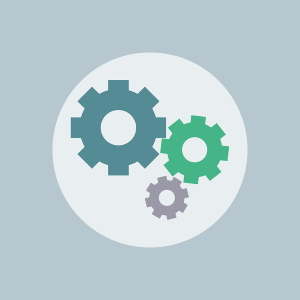
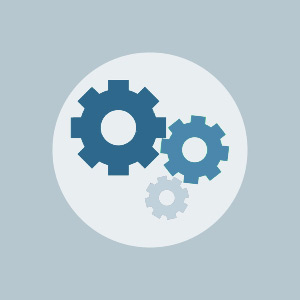
feat(ux): color changes, home screen improvement

Changed region(s): [[0.21, 0.24, 0.78, 0.75]]

diff --git a/src/views/Home.vue b/src/views/Home.vue
@@ -1,5 +1,53 @@
 <template>
-  <div class="container">Configured API: {{ apiUrl }}</div>
+  <div>
+    <div class="container">
+      <div class="jumbotron">
+        <h1 class="display-4">Combinatorial Auction Visualizer</h1>
+        <p class="lead">
+          An online, interactive platform for combinatorial auctions.
+        </p>
+        <hr class="my-4" />
+        <p>
+          The goal is that students/instructors/researchers can use this platform to learn about different auction formats and their
+          advantages and disadvantages in an interactive way.
+        </p>
+
+        <p class="lead text-center my-4">
+          <a class="btn btn-primary btn-lg" href="/docs/" role="button">Learn more</a>
+          <router-link tag="button" class="btn btn-success mx-3 btn-lg text-white" :to="{ name: 'auction-create' }"
+            >Setup an Auction</router-link
+          >
+        </p>
+
+        <div class="mt-4">
+          <p>
+            CAVis was developed at the <a href="https://www.uzh.ch/" target="_blank">University of Zurich</a> in collaboration with
+            <a href="https://www.bu.edu/" target="_blank">Boston University</a>.
+          </p>
+
+          <p>
+            CAVis is an open-source web application, published under the GNU Affero license (Contributions are welcome!). The source code of
+            all components is <a href="https://github.com/marketdesignresearch/" target="_blank">published</a> on GitHub.
+          </p>
+
+          <p>
+            Notable dependencies (each also developed and open-sourced by us) that enable this visualization are:
+          </p>
+
+          <ul>
+            <li>
+              <a href="https://github.com/marketdesignresearch/mechlib/" target="_blank">Mechanism Library</a>: A java library that provides
+              the core concepts for several kinds of market mechanisms
+            </li>
+            <li>
+              <a href="http://spectrumauctions.org/" target="_blank">SATS</a>: A "Spectrum Auction Test Suite" that provides the models and
+              Winner Determination Problems of several spectrum auction domains
+            </li>
+          </ul>
+        </div>
+      </div>
+    </div>
+  </div>
 </template>
 
 <script lang="ts">
@@ -7,6 +55,9 @@ import Vue from 'vue'
 import api from '@/services/api'
 
 export default Vue.extend({
+  components: {
+    'auction-create': () => import('./AuctionSetupChoose.vue')
+  },
   computed: {
     apiUrl(): string | undefined {
       return api().defaults.baseURL

diff --git a/src/App.vue b/src/App.vue
@@ -2,7 +2,7 @@
   <div id="app" class="d-flex flex-column">
     <b-navbar class="mb-4" toggleable="lg" type="light">
       <div class="container">
-        <router-link tag="a" class="navbar-brand" :to="{ name: 'auction-create' }">
+        <router-link tag="a" class="navbar-brand" :to="{ name: 'home' }">
           Home
         </router-link>
 
@@ -25,19 +25,20 @@
               <a class="nav-link" href="/docs/#/faq" target="_blank">FAQ</a>
             </li>
             <li class="nav-item" v-intro="'Click here to create a new auction.'" v-intro-step="2">
-              <router-link tag="a" class="nav-link btn btn-primary text-white" :to="{ name: 'auction-create' }">
+              <router-link tag="button" class="nav-link btn btn-primary text-white" :to="{ name: 'auction-create' }">
                 Create new Auction
               </router-link>
             </li>
             <li class="nav-item">
-              <a
-                class="nav-link btn btn-secondary text-white"
+              <button
+                class="nav-link btn btn-info text-white"
                 :class="{ 'mt-1': navCollapsed, 'ml-1': !navCollapsed }"
                 v-intro="'You can restart this tour anytime.'"
                 v-intro-step="99"
                 @click="showHelp"
-                >Help</a
               >
+                Help
+              </button>
             </li>
           </b-navbar-nav>
         </b-collapse>
@@ -77,10 +78,32 @@ export default Vue.extend({
 </script>
 
 <style lang="scss" scoped>
+@import 'custom.scss';
+
+.navbar-collapse.collapse.show,
+.navbar-collapse.collapsing {
+  button {
+    @extend .btn-block;
+  }
+
+  li.nav-item {
+    a.nav-link {
+      padding-right: 0;
+      padding-left: 0;
+    }
+  }
+}
+
+li.nav-item {
+  a.nav-link {
+    padding-left: 1rem;
+    padding-right: 2rem;
+  }
+}
+
 #app {
   -webkit-font-smoothing: antialiased;
   -moz-osx-font-smoothing: grayscale;
-  color: #2c3e50;
   min-height: 100vh;
 }
 
@@ -90,16 +113,5 @@ export default Vue.extend({
 
 .navbar-toggler {
   border: none;
-}
-
-#nav {
-  padding: 30px;
-  a {
-    font-weight: bold;
-    color: #2c3e50;
-    &.router-link-exact-active {
-      color: #42b983;
-    }
-  }
 }
 </style>

diff --git a/public/index.html b/public/index.html
@@ -1,15 +1,18 @@
 <!DOCTYPE html>
 <html lang="en">
   <head>
-    <meta charset="utf-8">
-    <meta http-equiv="X-UA-Compatible" content="IE=edge">
-    <meta name="viewport" content="width=device-width,initial-scale=1.0">
-    <link rel="icon" href="<%= BASE_URL %>favicon.ico">
-    <title>caviz-frontend</title>
+    <meta charset="utf-8" />
+    <meta http-equiv="X-UA-Compatible" content="IE=edge" />
+    <meta name="viewport" content="width=device-width,initial-scale=1.0" />
+    <link rel="icon" href="<%= BASE_URL %>favicon.ico" />
+    <title>Combinatorial Auction Visualizer</title>
   </head>
   <body>
     <noscript>
-      <strong>We're sorry but caviz-frontend doesn't work properly without JavaScript enabled. Please enable it to continue.</strong>
+      <strong
+        >We're sorry but Combinatorial Auction Visualizer doesn't work properly without JavaScript enabled. Please enable it to
+        continue.</strong
+      >
     </noscript>
     <div id="app"></div>
     <!-- built files will be auto injected -->

diff --git a/src/views/AuctionList.vue b/src/views/AuctionList.vue
@@ -1,11 +1,11 @@
 <template>
   <div class="container">
-    <h1>
+    <h2>
       Auctions
       <router-link tag="button" class="btn btn-secondary btn-sm float-right" :to="{ name: 'auction-archive' }">
         Archive <font-awesome-icon icon="archive" />
       </router-link>
-    </h1>
+    </h2>
     <hr />
 
     <div class="table-responsive">

diff --git a/src/views/AuctionResult.vue b/src/views/AuctionResult.vue
@@ -2,7 +2,7 @@
   <div class="container content" v-if="result">
     <div class="row">
       <div class="col">
-        <h1>Result of Auction</h1>
+        <h2>Result of Auction</h2>
 
         <p>Total Payments: {{ result.payments.totalPayments | formatNumber }}</p>
 

diff --git a/public/docs/index.html b/public/docs/index.html
@@ -23,6 +23,7 @@
         loadSidebar: true,
         subMaxLevel: 3,
         auto2top: true,
+        themeColor: '#2E688C',
         repo: 'https://github.com/marketdesignresearch/cavis-frontend/',
         search: {
           placeholder: 'Search...'

diff --git a/src/custom.scss b/src/custom.scss
@@ -17,6 +17,14 @@ $grid-breakpoints: (
     xl: 1400px
 );
 
+$theme-colors: (
+  'primary': #2e688c,
+  'danger': #f25d50,
+  'warning': #f2b544,
+  'success': #11a536,
+  'info': #71bbd9
+);
+
 $container-max-widths: (
   sm: 540px,
   md: 720px,

diff --git a/src/components/auction/BidderCircle.vue b/src/components/auction/BidderCircle.vue
@@ -74,6 +74,5 @@ export default Vue.extend({
 .bidsPlaced {
   border: 3px solid theme-color('success');
   padding-top: 21px;
-  // background-color: lighten(theme-color('success'), 25%);
 }
 </style>

diff --git a/src/views/AuctionArchive.vue b/src/views/AuctionArchive.vue
@@ -1,6 +1,6 @@
 <template>
   <div class="container">
-    <h1>Archived Auctions</h1>
+    <h2>Archived Auctions</h2>
     <hr />
 
     <div class="table-responsive">

diff --git a/src/views/AuctionSetupCustomize.vue b/src/views/AuctionSetupCustomize.vue
@@ -1,7 +1,7 @@
 <template>
   <div>
     <div class="container">
-      <h1>Setup an Auction</h1>
+      <h2>Setup an Auction</h2>
 
       <hr />
 

diff --git a/src/views/AuctionSetupChoose.vue b/src/views/AuctionSetupChoose.vue
@@ -1,6 +1,6 @@
 <template>
   <div class="container">
-    <h1>Setup an Auction</h1>
+    <h2>Setup an Auction</h2>
     <hr />
 
     <p>
